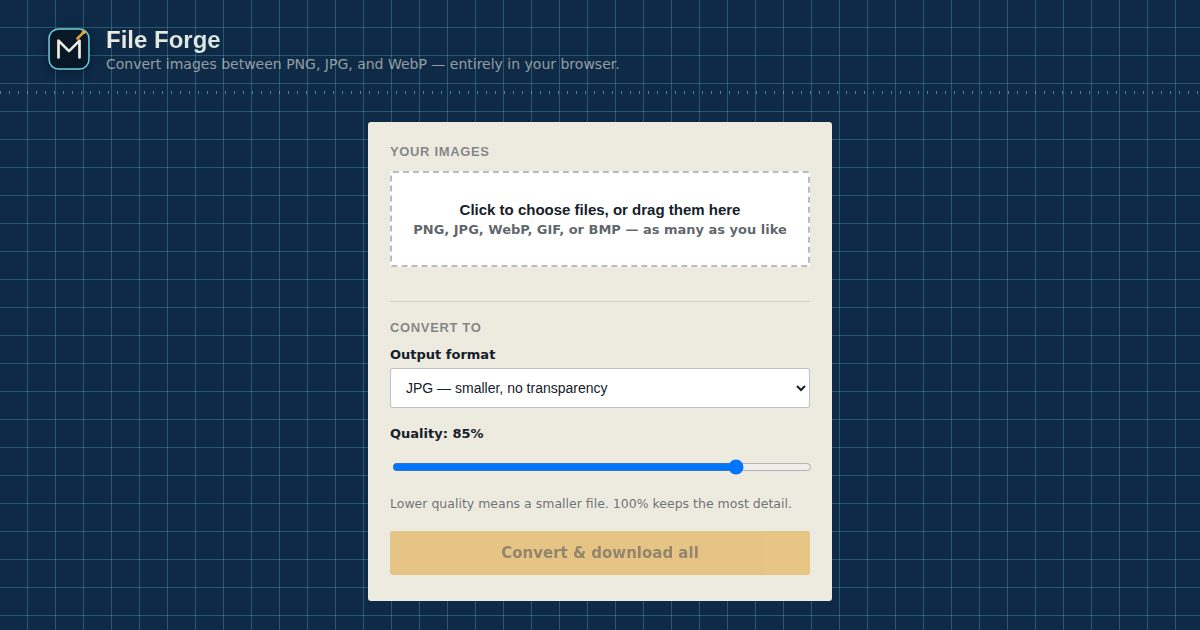
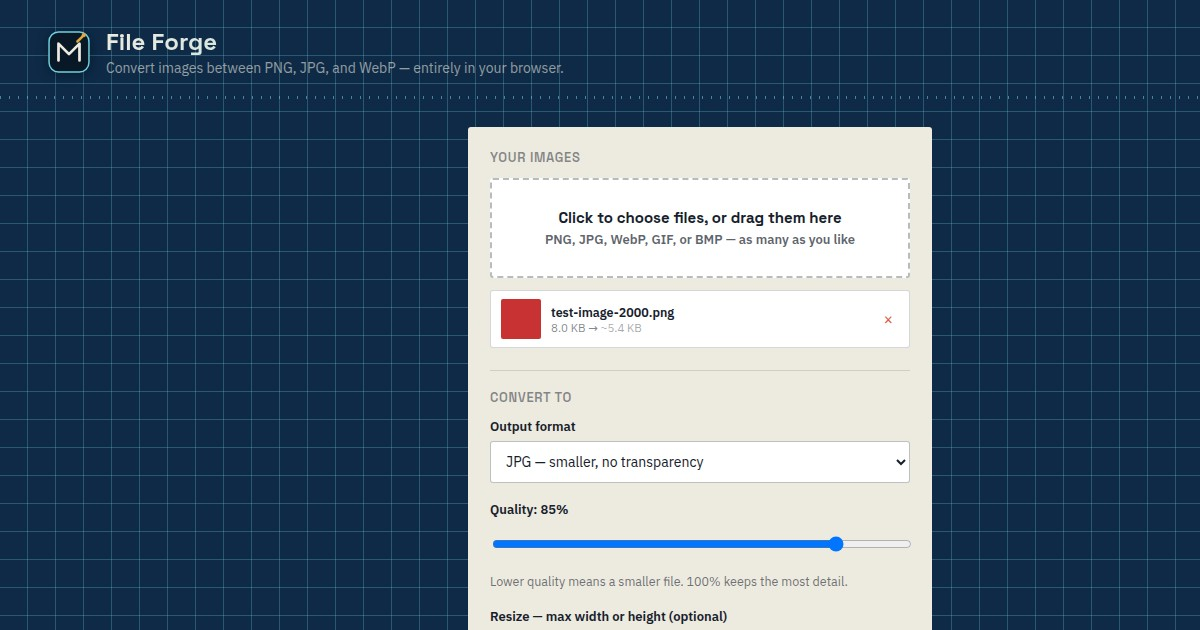
Add zip bundling, resize-on-convert, and size estimates to File Forge
Converting a batch of files previously fired one browser download prompt
per file (with a 250ms stagger) — for 10+ files this spams the download UI
and can get blocked by the browser. There was also no way to resize on
convert, and no feedback on the resulting file size before committing to a
quality setting.

- Added a "Bundle results into one .zip file" option (JSZip, same library
  already used by App Forge), on by default; each entry gets a de-duplicated
  filename in the archive. Turning it off keeps the old one-download-per-file
  behavior for the one-or-two-file case.
- Added a resize dropdown (keep original / 4K / 1920 / 1280 / 800 / 500px)
  that scales the longer side down to fit if the source is bigger, keeping
  proportions, never scaling up.
- Added a live "~X KB" estimate next to each file's original size, computed
  by actually re-encoding at the current format/quality/resize settings
  (debounced 350ms so it doesn't run on every slider tick) and superseding
  any in-flight estimate pass if settings change again before it finishes.

Tested with Playwright (routed through the sandbox proxy so the real JSZip
CDN script loads): uploaded a handcrafted 2000x1000 PNG, verified the live
size estimate appears and updates after selecting a resize target, converted
with zip bundling on and confirmed — by actually unzipping the downloaded
file in-browser with JSZip — that it contains one correctly-named .jpg
[…]

Changed region(s): [[0.3083, 0.181, 0.8017, 1.0], [0.0308, 0.0302, 0.5242, 0.1206]]

diff --git a/file-forge.html b/file-forge.html
@@ -17,6 +17,7 @@
 <link rel="preconnect" href="https://fonts.googleapis.com">
 <link rel="preconnect" href="https://fonts.gstatic.com" crossorigin>
 <link href="https://fonts.googleapis.com/css2?family=Space+Grotesk:wght@500;600;700&family=IBM+Plex+Sans:wght@400;500;600&family=IBM+Plex+Mono:wght@500&display=swap" rel="stylesheet">
+<script src="https://cdnjs.cloudflare.com/ajax/libs/jszip/3.10.1/jszip.min.js"></script>
 
 <style>
   :root {
@@ -156,6 +157,7 @@
   .file-row .file-meta { flex: 1; min-width: 0; }
   .file-row .file-name { font-size: 12.5px; font-weight: 600; white-space: nowrap; overflow: hidden; text-overflow: ellipsis; }
   .file-row .file-size { font-size: 11.5px; color: rgba(22, 32, 43, 0.55); }
+  .file-row .file-size .estimate { color: rgba(22, 32, 43, 0.4); }
   .file-row .file-status { font-size: 11.5px; flex: none; }
   .file-row .remove-file { background: transparent; border: none; color: var(--error); font-size: 16px; cursor: pointer; flex: none; padding: 2px 6px; }
 
@@ -226,6 +228,22 @@
       <input type="range" id="qualitySlider" min="10" max="100" value="85" step="5">
       <p class="hint">Lower quality means a smaller file. 100% keeps the most detail.</p>
     </div>
+    <div class="field">
+      <label for="maxDimension">Resize — max width or height (optional)</label>
+      <select id="maxDimension">
+        <option value="0" selected>Keep original size</option>
+        <option value="3840">3840px (4K)</option>
+        <option value="1920">1920px</option>
+        <option value="1280">1280px</option>
+        <option value="800">800px</option>
+        <option value="500">500px</option>
+      </select>
+      <p class="hint">Scales the longer side down to fit if the image is bigger — the shorter side follows to keep proportions. Never scales up.</p>
+    </div>
+    <div class="field" style="margin-bottom:8px;">
+      <label style="display:flex;align-items:center;gap:8px;font-weight:400;cursor:pointer;"><input type="checkbox" id="zipOutput" checked style="width:auto;"> Bundle results into one .zip file</label>
+      <p class="hint">Off downloads each file separately instead — handy for just one or two images.</p>
+    </div>
 
     <button type="button" class="draft-btn" id="convertBtn" disabled>Convert &amp; download all</button>
     <div class="error-box" id="errorBox"></div>
@@ -245,10 +263,13 @@
   const qualityField = document.getElementById('qualityField');
   const qualitySlider = document.getElementById('qualitySlider');
   const qualityValue = document.getElementById('qualityValue');
+  const maxDimensionSelect = document.getElementById('maxDimension');
+  const zipOutputCheckbox = document.getElementById('zipOutput');
   const convertBtn = document.getElementById('convertBtn');
   const errorBox = document.getElementById('errorBox');
 
   let files = [];
+  let estimateToken = 0;
 
   function showError(message) { errorBox.textContent = message; errorBox.classList.add('show'); }
   function clearError() { errorBox.textContent = ''; errorBox.classList.remove('show'); }
@@ -268,7 +289,8 @@
       img.src = f.previewUrl;
       const meta = document.createElement('div');
       meta.className = 'file-meta';
-      meta.innerHTML = '<div class="file-name">' + f.file.name + '</div><div class="file-size">' + formatBytes(f.file.size) + '</div>';
+      const estimateText = f.estimatedSize != null ? ' → <span class="estimate">~' + formatBytes(f.estimatedSize) + '</span>' : '';
+      meta.innerHTML = '<div class="file-name">' + f.file.name + '</div><div class="file-size">' + formatBytes(f.file.size) + estimateText + '</div>';
       const status = document.createElement('div');
       status.className = 'file-status';
       status.textContent = f.status || '';
@@ -296,10 +318,11 @@
     const incoming = Array.from(fileListArg).filter(f => f.type.startsWith('image/'));
     if (!incoming.length) { showError('Please choose image files (PNG, JPG, WebP, GIF, or BMP).'); return; }
     incoming.forEach(file => {
-      files.push({ file: file, previewUrl: URL.createObjectURL(file), status: '' });
+      files.push({ file: file, previewUrl: URL.createObjectURL(file), status: '', estimatedSize: null });
     });
     renderFileList();
     convertBtn.disabled = files.length === 0;
+    scheduleEstimate();
   }
 
   fileInput.addEventListener('change', (e) => addFiles(e.target.files));
@@ -315,10 +338,11 @@
   function updateQualityVisibility() {
     qualityField.style.display = formatSelect.value === 'image/png' ? 'none' : 'block';
   }
-  formatSelect.addEventListener('change', updateQualityVisibility);
+  formatSelect.addEventListener('change', () => { updateQualityVisibility(); scheduleEstimate(); });
   updateQualityVisibility();
 
-  qualitySlider.addEventListener('input', () => { qualityValue.textContent = qualitySlider.value + '%'; });
+  qualitySlider.addEventListener('input', () => { qualityValue.textContent = qualitySlider.value + '%'; scheduleEstimate(); });
+  maxDimensionSelect.addEventListener('change', scheduleEstimate);
 
   function extensionFor(mime) {
     if (mime === 'image/png') return 'png';
@@ -326,19 +350,26 @@
     return 'jpg';
   }
 
-  function convertOne(entry, mime, quality) {
+  function scaledDimensions(width, height, maxDimension) {
+    if (!maxDimension || (width <= maxDimension && height <= maxDimension)) return { width: width, height: height };
+    const scale = maxDimension / Math.max(width, height);
+    return { width: Math.max(1, Math.round(width * scale)), height: Math.max(1, Math.round(height * scale)) };
+  }
+
+  function convertOne(entry, mime, quality, maxDimension) {
     return new Promise((resolve, reject) => {
       const img = new Image();
       img.onload = () => {
+        const size = scaledDimensions(img.naturalWidth, img.naturalHeight, maxDimension);
         const canvas = document.createElement('canvas');
-        canvas.width = img.naturalWidth;
-        canvas.height = img.naturalHeight;
+        canvas.width = size.width;
+        canvas.height = size.height;
         const ctx = canvas.getContext('2d');
         if (mime === 'image/jpeg') {
           ctx.fillStyle = '#ffffff';
           ctx.fillRect(0, 0, canvas.width, canvas.height);
         }
-        ctx.drawImage(img, 0, 0);
+        ctx.drawImage(img, 0, 0, size.width, size.height);
         canvas.toBlob((blob) => {
           if (!blob) { reject(new Error('Conversion failed for ' + entry.file.name)); return; }
           resolve(blob);
@@ -349,6 +380,51 @@
     });
   }
 
+  let estimateTimer = null;
+  function scheduleEstimate() {
+    if (estimateTimer) clearTimeout(estimateTimer);
+    estimateTimer = setTimeout(runEstimate, 350);
+  }
+
+  async function runEstimate() {
+    if (!files.length) return;
+    const token = ++estimateToken;
+    const mime = formatSelect.value;
+    const quality = parseInt(qualitySlider.value, 10) / 100;
+    const maxDimension = parseInt(maxDimensionSelect.value, 10) || 0;
+    for (const entry of files) {
+      if (token !== estimateToken) return; // superseded by a newer change
+      try {
+        const blob = await convertOne(entry, mime, quality, maxDimension);
+        if (token !== estimateToken) return;
+        entry.estimatedSize = blob.size;
+      } catch (e) {
+        if (token !== estimateToken) return;
+        entry.estimatedSize = null;
+      }
+      renderFileList();
+    }
+  }
+
+  function downloadBlob(blob, filename) {
+    const url = URL.createObjectURL(blob);
+    const a = document.createElement('a');
+    a.href = url;
+    a.download = filename;
+    document.body.appendChild(a);
+    a.click();
+    document.body.removeChild(a);
+    setTimeout(() => URL.revokeObjectURL(url), 4000);
+  }
+
+  function uniqueName(baseName, ext, usedNames) {
+    let name = baseName + '.' + ext;
+    let n = 2;
+    while (usedNames.has(name)) { name = baseName + '-' + n + '.' + ext; n++; }
+    usedNames.add(name);
+    return name;
+  }
+
   convertBtn.addEventListener('click', async () => {
     clearError();
     if (!files.length) return;
@@ -356,31 +432,42 @@
     convertBtn.textContent = 'Converting…';
     const mime = formatSelect.value;
     const quality = parseInt(qualitySlider.value, 10) / 100;
+    const maxDimension = parseInt(maxDimensionSelect.value, 10) || 0;
     const ext = extensionFor(mime);
+    const useZip = zipOutputCheckbox.checked && typeof JSZip !== 'undefined';
 
+    const zip = useZip ? new JSZip() : null;
+    const usedNames = new Set();
     let failCount = 0;
     for (let i = 0; i < files.length; i++) {
       const entry = files[i];
       entry.status = 'Converting…';
       renderFileList();
       try {
-        const blob = await convertOne(entry, mime, quality);
+        const blob = await convertOne(entry, mime, quality, maxDimension);
         const baseName = entry.file.name.replace(/\.[^.]+$/, '');
-        const url = URL.createObjectURL(blob);
-        const a = document.createElement('a');
-        a.href = url;
-        a.download = baseName + '.' + ext;
-        document.body.appendChild(a);
-        a.click();
-        document.body.removeChild(a);
-        setTimeout(() => URL.revokeObjectURL(url), 4000);
+        const filename = uniqueName(baseName, ext, usedNames);
+        if (zip) {
+          zip.file(filename, blob);
+        } else {
+          downloadBlob(blob, filename);
+        }
         entry.status = '✓ Done';
       } catch (err) {
         entry.status = '✗ Failed';
         failCount++;
       }
       renderFileList();
-      await new Promise(r => setTimeout(r, 250)); // avoid overwhelming the browser's download prompts
+      if (!zip) await new Promise(r => setTimeout(r, 250)); // avoid overwhelming the browser's download prompts
+    }
+
+    if (zip) {
+      try {
+        const zipBlob = await zip.generateAsync({ type: 'blob' });
+        downloadBlob(zipBlob, 'file-forge-converted.zip');
+      } catch (err) {
+        showError('Could not build the .zip file: ' + err.message);
+      }
     }
 
     convertBtn.disabled = false;
